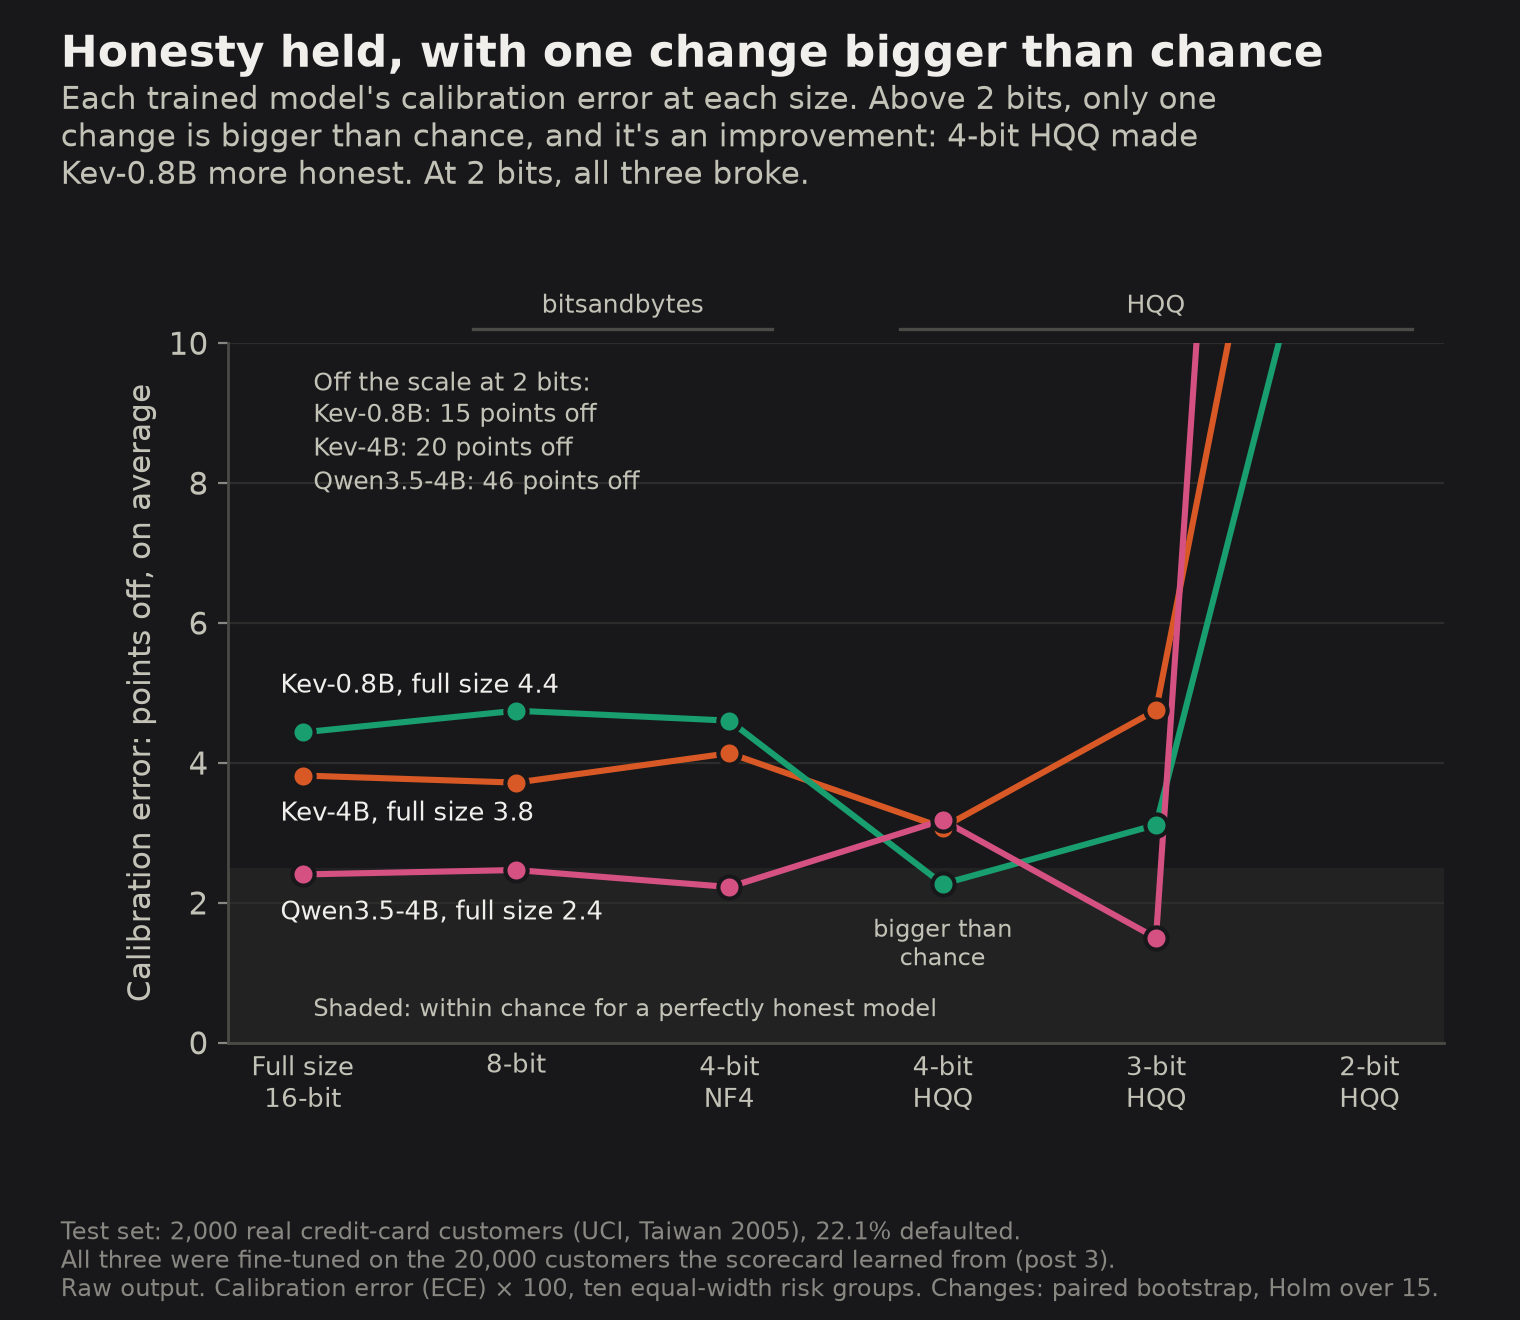
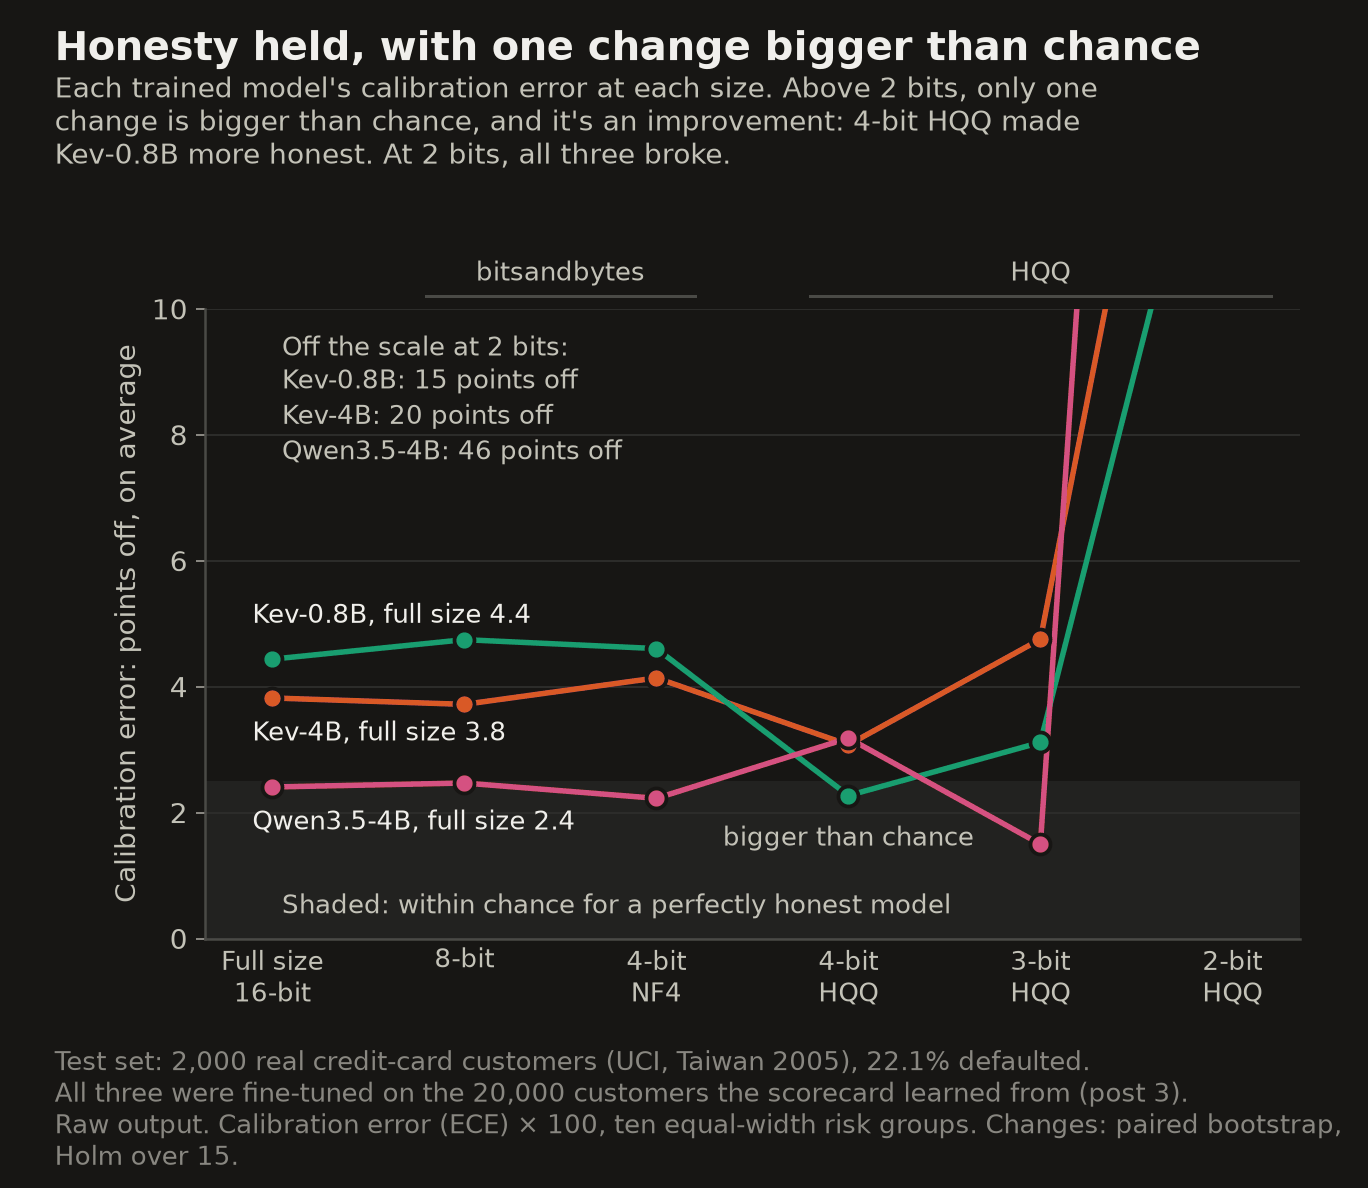
Post 4 ready to publish: charts for the new design, social card, LinkedIn URL
The four charts redrawn with the new export. The drift chart's numbers now sit
above each panel (the boxes hid the 60-80% customers), the honesty label is on
one line, and the cost footnote fits without wrapping. New social card
(post4_social_card.png). The LinkedIn first comment carries the post's URL.
Blog PR #54 publishes it.

diff --git a/analysis/quantization_figures.py b/analysis/quantization_figures.py
@@ -9,6 +9,7 @@
   versions, with how far the answers moved and the ranking and honesty that hid it.
 - post4_cost.png: GPU memory at peak and time per answer on the tuned setup (the speed addendum,
   results/speed_throughput.csv), with the first runs' times for the same weights as hollow dots.
+- post4_social_card.png: the blog's 1200x630 link-preview image (light only, like posts 1-3's).
 
     uv run python analysis/quantization_figures.py drift cost   # only these
 
@@ -161,9 +162,9 @@ def honesty(dark: bool = False) -> Path:
     sig = [(m_, s) for m_, _k, _n in MODELS for s in SIZES[1:-1]
            if value(m_, s, "ece_vs_bf16_p_holm") < 0.05]  # fmt: skip
     for m_, s in sig:
-        ax.annotate("bigger than\nchance", (SIZES.index(s), value(m_, s, "ece")), xytext=(0, -12),
+        ax.annotate("bigger than chance", (SIZES.index(s), value(m_, s, "ece")), xytext=(0, -12),
                     textcoords="offset points", ha="center", va="top", fontsize=8.5,
-                    color=F.INK_2, linespacing=1.1)  # fmt: skip
+                    color=F.INK_2)  # fmt: skip
     off_text = "\n".join(f"{name}: {100 * v:.0f} points off" for v, name in sorted(off))
     ax.text(0.05, top * 0.97, f"Off the scale at 2 bits:\n{off_text}", ha="left", va="top",
             fontsize=9, color=F.INK_2, linespacing=1.35)  # fmt: skip
@@ -200,8 +201,8 @@ def drift(dark: bool = False) -> Path:
     model, key, name = DRIFT_MODEL
     col = F.COLOR[key]
     ids0, _, p0 = Q.split_arrays(f"{model}-bf16", "trained", "test")
-    fig, axes = plt.subplots(2, 2, figsize=(7.6, 8.4), sharex=True, sharey=True)
-    fig.subplots_adjust(left=0.12, right=0.96, top=0.79, bottom=0.14, hspace=0.32, wspace=0.1)
+    fig, axes = plt.subplots(2, 2, figsize=(7.6, 9.4), sharex=True, sharey=True)
+    fig.subplots_adjust(left=0.12, right=0.96, top=0.745, bottom=0.12, hspace=0.62, wspace=0.1)
     for ax, size in zip(axes.flat, DRIFT_SIZES, strict=True):
         ids, _, p = Q.split_arrays(f"{model}-{size}", "trained", "test")
         assert ids == ids0
@@ -209,15 +210,14 @@ def drift(dark: bool = False) -> Path:
         ax.plot([0, 1], [0, 1], color=F.INK_2, lw=1.1, ls=(0, (4, 3)), zorder=3)
         moved = value(model, size, "mean_abs_change_vs_bf16")
         big = value(model, size, "moved_5pts_share")
-        ax.set_title(ROW[size], loc="left", fontsize=11.5, pad=6)
-        ax.text(0.03, 0.97, f"Average move: {100 * moved:.1f} pts\n"
+        # The numbers sit above each panel, not inside it, so no customer is hidden behind them.
+        ax.set_title(ROW[size], loc="left", fontsize=11.5, pad=52)
+        ax.text(0, 1.03, f"Average move: {100 * moved:.1f} pts\n"
                 f"Moved 5+ pts: {share_text(big)}\n"
-                f"Ranking {value(model, size, 'auc'):.3f}\n"
+                f"Ranking {value(model, size, 'auc'):.3f}, "
                 f"{100 * value(model, size, 'ece'):.1f} pts off",
-                transform=ax.transAxes, ha="left", va="top", fontsize=8.8, color=F.INK,
-                linespacing=1.35,
-                bbox={"boxstyle": "round,pad=0.3", "fc": F.SURFACE, "ec": "none",
-                      "alpha": 0.85})  # fmt: skip
+                transform=ax.transAxes, ha="left", va="bottom", fontsize=10.5, color=F.INK_2,
+                linespacing=1.3)  # fmt: skip
         ax.set_xlim(0, 1)
         ax.set_ylim(0, 1)
         ax.set_xticks([0, 0.25, 0.5, 0.75, 1])
@@ -273,7 +273,7 @@ def cost(dark: bool = False) -> Path:
     F.set_theme(dark)
     plt = F.plt
     fig, (left, right) = plt.subplots(1, 2, figsize=(7.6, 6.6), sharey=True)
-    fig.subplots_adjust(left=0.2, right=0.97, top=0.71, bottom=0.2, wspace=0.12)
+    fig.subplots_adjust(left=0.2, right=0.97, top=0.71, bottom=0.27, wspace=0.12)
     ms, peak = speed_ms(), speed_peak_gib()
     for model, key, _name in MODELS:
         col = F.COLOR[key]
@@ -327,24 +327,81 @@ def cost(dark: bool = False) -> Path:
              f"GemLite, by {100 * (1 - gain):.0f}%. Hollow dots: my first, untuned runs.",
              )  # fmt: skip
     F.footer(fig, "\n".join((
-        "Time: average over 500 customers (first runs: median over 2,000). Tuned: fast kernels, "
-        "Kev's CUDA graphs on",
-        "(its fused kernels need full-size weights), Qwen compiled. Memory: the first runs; FP8 "
-        "from its own run.",
+        "Time: average over 500 customers (first runs: median over 2,000 answers).",
+        "Tuned: fast kernels, Kev's CUDA graphs on (fused kernels at full size only), "
+        "Qwen compiled.",
+        "Memory: from the first runs, and FP8 from its own run.",
         "At $0.44 per GPU hour, 100 ms per answer is about 1.2 cents per 1,000 answers.",
     )))  # fmt: skip
     return F.save(fig, "post4_cost.png")
+
+
+# ---- the blog's link-preview image ---------------------------------------------------------------
+
+
+def social_card() -> Path:
+    """1200x630 link-preview image in the style of posts 1-3: title and hook on the left, and on
+    the right, memory and time per answer at full size (open) and 4-bit HQQ on GemLite (filled),
+    on the tuned setup (light only, like theirs)."""
+    F.set_theme(False)
+    plt = F.plt
+    fig = plt.figure(figsize=(6, 3.15))
+    t = fig.text
+    dot = "·"
+    t(0.055, 0.89, f"LEARNING CURVE  {dot}  nishzsche.github.io", fontsize=7.5, color=F.MUTED,
+      fontweight="bold", va="center")  # fmt: skip
+    t(0.055, 0.80, "I shrank\nAI models.", fontsize=21, fontweight="bold", color=F.INK, va="top",
+      linespacing=1.05)  # fmt: skip
+    t(0.055, 0.47, "Their percentages held to 4 bits.\nBut on a tuned GPU, the smaller\n"
+      "models were rarely faster.", fontsize=9.5, color=F.INK_2, va="top",
+      linespacing=1.25)  # fmt: skip
+    t(0.055, 0.205, "It saved memory, not time.", fontsize=12, fontweight="bold", color=F.INK,
+      va="top")  # fmt: skip
+    t(0.055, 0.075, f"3 trained AI models  {dot}  2,000 real credit-card customers", fontsize=7.5,
+      color=F.MUTED, va="center")  # fmt: skip
+
+    ms = speed_ms()
+    def peak_gb(m_: str, size: str) -> float:
+        return GB * value(m_, size, "gpu_peak_gb")
+
+    panels = (
+        ("Memory at peak (GB)", (0, 10), [0, 5, 10],
+         lambda m_: (peak_gb(m_, "bf16"), peak_gb(m_, "hqq-4"))),
+        ("Time per answer (ms)", (0, 120), [0, 50, 100],
+         lambda m_: (ms[f"{m_}-bf16-tuned"], ms[f"{m_}-hqq-4-gemlite"])),
+    )  # fmt: skip
+    for k, (title, xlim, ticks, pair) in enumerate(panels):
+        ax = fig.add_axes((0.69, 0.6 - k * 0.37, 0.27, 0.2))
+        for y, (m_, key, _name) in enumerate(MODELS):
+            full, small = pair(m_)
+            col = F.COLOR[key]
+            ax.plot([full, small], [y, y], color=col, lw=2, alpha=0.35, zorder=2)
+            ax.plot(full, y, "o", ms=5.5, color=F.SURFACE, mec=col, mew=1.5, zorder=3)
+            ax.plot(small, y, "o", ms=5.5, color=col, zorder=4)
+        ax.set_yticks(range(len(MODELS)), [name for _m, _k, name in MODELS], fontsize=7.5)
+        ax.set_ylim(len(MODELS) - 0.5, -0.6)
+        ax.set_xlim(*xlim)
+        ax.set_xticks(ticks)
+        ax.tick_params(axis="x", labelsize=7)
+        ax.tick_params(axis="y", length=0, labelcolor=F.INK)
+        ax.grid(axis="y", visible=False)
+        ax.set_title(title, fontsize=9, loc="left", pad=6)
+    fig.text(0.69 - 0.13, 0.08, "open: full size  ·  filled: 4 bits (HQQ on GemLite)",
+             fontsize=6, color=F.MUTED, va="center")  # fmt: skip
+    return F.save(fig, "post4_social_card.png", card=True)
 
 
 FIGURES = (ranking, honesty, drift, cost)
 
 
 def main() -> None:
-    names = set(sys.argv[1:])  # optional: only these, e.g. `drift cost`
+    names = set(sys.argv[1:])  # optional: only these, e.g. `drift cost` or `social_card`
     for dark in (False, True):
         for fig in FIGURES:
             if not names or fig.__name__ in names:
                 print(f"Saved -> {fig(dark)}")
+    if not names or "social_card" in names:
+        print(f"Saved -> {social_card()}")
 
 
 if __name__ == "__main__":

diff --git a/STATUS.md b/STATUS.md
@@ -113,7 +113,14 @@ L4_RUNBOOK.md §8 on a fresh L4. Gate passed: the speed-run guesses are in `PRED
     - The decisions slide computes the same-model-twice floor itself.
     - The carousel picks up whatever `analysis/figures.py` has; it was built with the blog session's uncommitted warm-paper surface (#faf8f3).
     - **Draft fix found while building:** the post's same-model-twice row now reads 0.2% / 0.4% / 1.5% at the full-size cut-off, not 0.2% / 1.4%. Review copy version 2.1 carries it (blog PR #52, on its own branch from main, because another session's PR #51 was open on `dev`).
-  - **Next:** the author reviews the LinkedIn draft, then the X post and social card. The blog session is moving `analysis/figures.py` to the new blog design (warm paper, larger small text). Post 4's charts stay in the current look until that design launches; then redraw them and check the layouts.
+  - **Ready to publish (2026-11-27, blog PR #54, open):**
+    - `_posts/2026-11-27-shrinking-ai-models.md`, dated 12:00 IST, so merge after noon (GitHub Pages skips future-dated posts).
+    - Charts redrawn with the new export and embedded with `chart.html` (alt plus "Chart in words"). The drift chart's numbers moved above each panel: the boxes had hidden the 60–80% customers. The honesty label and the cost footnote were re-laid.
+    - Social card `results/figures/post4_social_card.png` (`quantization_figures.py social_card`).
+    - Drawing `20261009-163715.jpg` (Hanuman bowing to a stick of RAM), the author's choice, relayed by the blog session. On main it's also post 1's icon until the blog's design Phase 3 reassigns icons and adds `icon_caption:`.
+    - The review URL redirects, and post 3's closing line links to post 4.
+    - The LinkedIn first comment now carries the URL.
+  - **Next:** the author merges PR #54 after 12:00 IST (posts 2 and 3 went up around 13:00 IST), then posts on LinkedIn with `writeup/quantization_carousel.pdf`. X post optional (post 3's was never written). Open rule question: exempt closing sections from the 600-word chart limit. The blog session is moving `analysis/figures.py` to the new blog design (warm paper, larger small text). Post 4's charts stay in the current look until that design launches; then redraw them and check the layouts.
 - **Still to do after the author's review:** the LinkedIn post and its carousel (`writeup/STYLE.md`: 8–10 slides, a builder script), the X post, the social card, and the README and PLAN status.
 
 ## L4 session A done (2026-11-25 19:43 → 2026-11-26 01:30 IST)

diff --git a/writeup/quantization_linkedin.md b/writeup/quantization_linkedin.md
@@ -4,7 +4,7 @@ A document post (a swipeable PDF carousel, like posts 1–3): nine square slides
 
 **Attach:** `writeup/quantization_carousel.pdf`, as a document ("Add a document" in the post composer). Document title (LinkedIn allows 58 characters): "I shrank AI models. It saved memory, not time." A post takes images or a document, not both, and its media can't be changed after it's published.
 
-**Blog post:** not published yet. The review copy is at https://nishzsche.github.io/review/shrinking-ai-models/. When it's published, put its URL in the first comment, and rebuild the carousel if any number changed.
+**Blog post:** https://nishzsche.github.io/2026/11/27/shrinking-ai-models/ once blog PR #54 is merged (after 12:00 IST on 27 November; the review URL then redirects to it). If it's ever edited in a way that changes a number, rebuild the carousel before reposting.
 
 ## Post text
 
@@ -34,7 +34,7 @@ A document post (a swipeable PDF carousel, like posts 1–3): nine square slides
 
 ## First comment
 
-> The full write-up: [the published URL]
+> The full write-up: https://nishzsche.github.io/2026/11/27/shrinking-ai-models/
 > The first three posts: https://nishzsche.github.io/2026/11/23/can-ai-know-when-its-wrong/, https://nishzsche.github.io/2026/11/24/why-99-percent-accuracy/ and https://nishzsche.github.io/2026/11/25/fair-fight/
 > Code and every prediction, with the library versions behind it: https://github.com/nishzsche/can-ai-know-when-its-wrong
 > Data: a public dataset of 30,000 Taiwanese credit-card customers from 2005 (UCI "Default of Credit Card Clients", Yeh & Lien, 2009; CC BY 4.0). No age, sex, marital status or education in any model's input.
